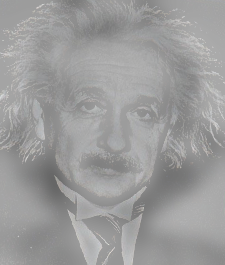
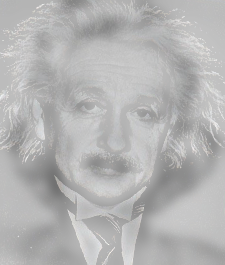
Added new image and changed a constant

diff --git a/HybridImage/src/hybridimage/HybridImage.java b/HybridImage/src/hybridimage/HybridImage.java
@@ -4,7 +4,6 @@ import org.opencv.core.Core;
 import org.opencv.core.Mat;
 import org.opencv.highgui.Highgui;
 import org.opencv.imgproc.Imgproc;
-import org.opencv.core.CvType;
 import org.opencv.core.Scalar;
 import org.opencv.core.Size;
 
@@ -28,7 +27,7 @@ class HybridImageDemo {
     resultType = ResultType.ShowResult;
     
     final int   LP_GAUSSIAN_SIZE = 0,
-                LP_STD_DEV = 8;
+                LP_STD_DEV = 5;
     
     final int   HP_GAUSSIAN_SIZE = 0,
                 HP_STD_DEV = 7;
@@ -43,7 +42,8 @@ class HybridImageDemo {
     String[] fileNames = new String[] {
       "/resources/images/dog2.jpg", "/resources/images/cat2.jpg",
       "/resources/images/dog3.png", "/resources/images/cat3.png",
-      "/resources/images/marilyn.bmp", "/resources/images/einstein.bmp"
+      "/resources/images/marilyn.bmp", "/resources/images/einstein.bmp",
+      "/resources/images/grassCat.jpg", "/resources/images/grassDog.jpg"
     };
   
     String image1FileName = fileNames[USE_EXAMPLE*2];
@@ -80,7 +80,7 @@ class HybridImageDemo {
     switch(imageAddType) {
         case Add:           Core.add(firstImage, secondImage, result);
                             break;
-        case AddWeighted:   Core.addWeighted(firstImage, .5, secondImage, .5, 0, result);
+        case AddWeighted:   Core.addWeighted(firstImage, .5, secondImage, .5, 25, result);
                             break;
         case BitwiseAnd:    Core.bitwise_and(firstImage, secondImage, result);
                             break;
